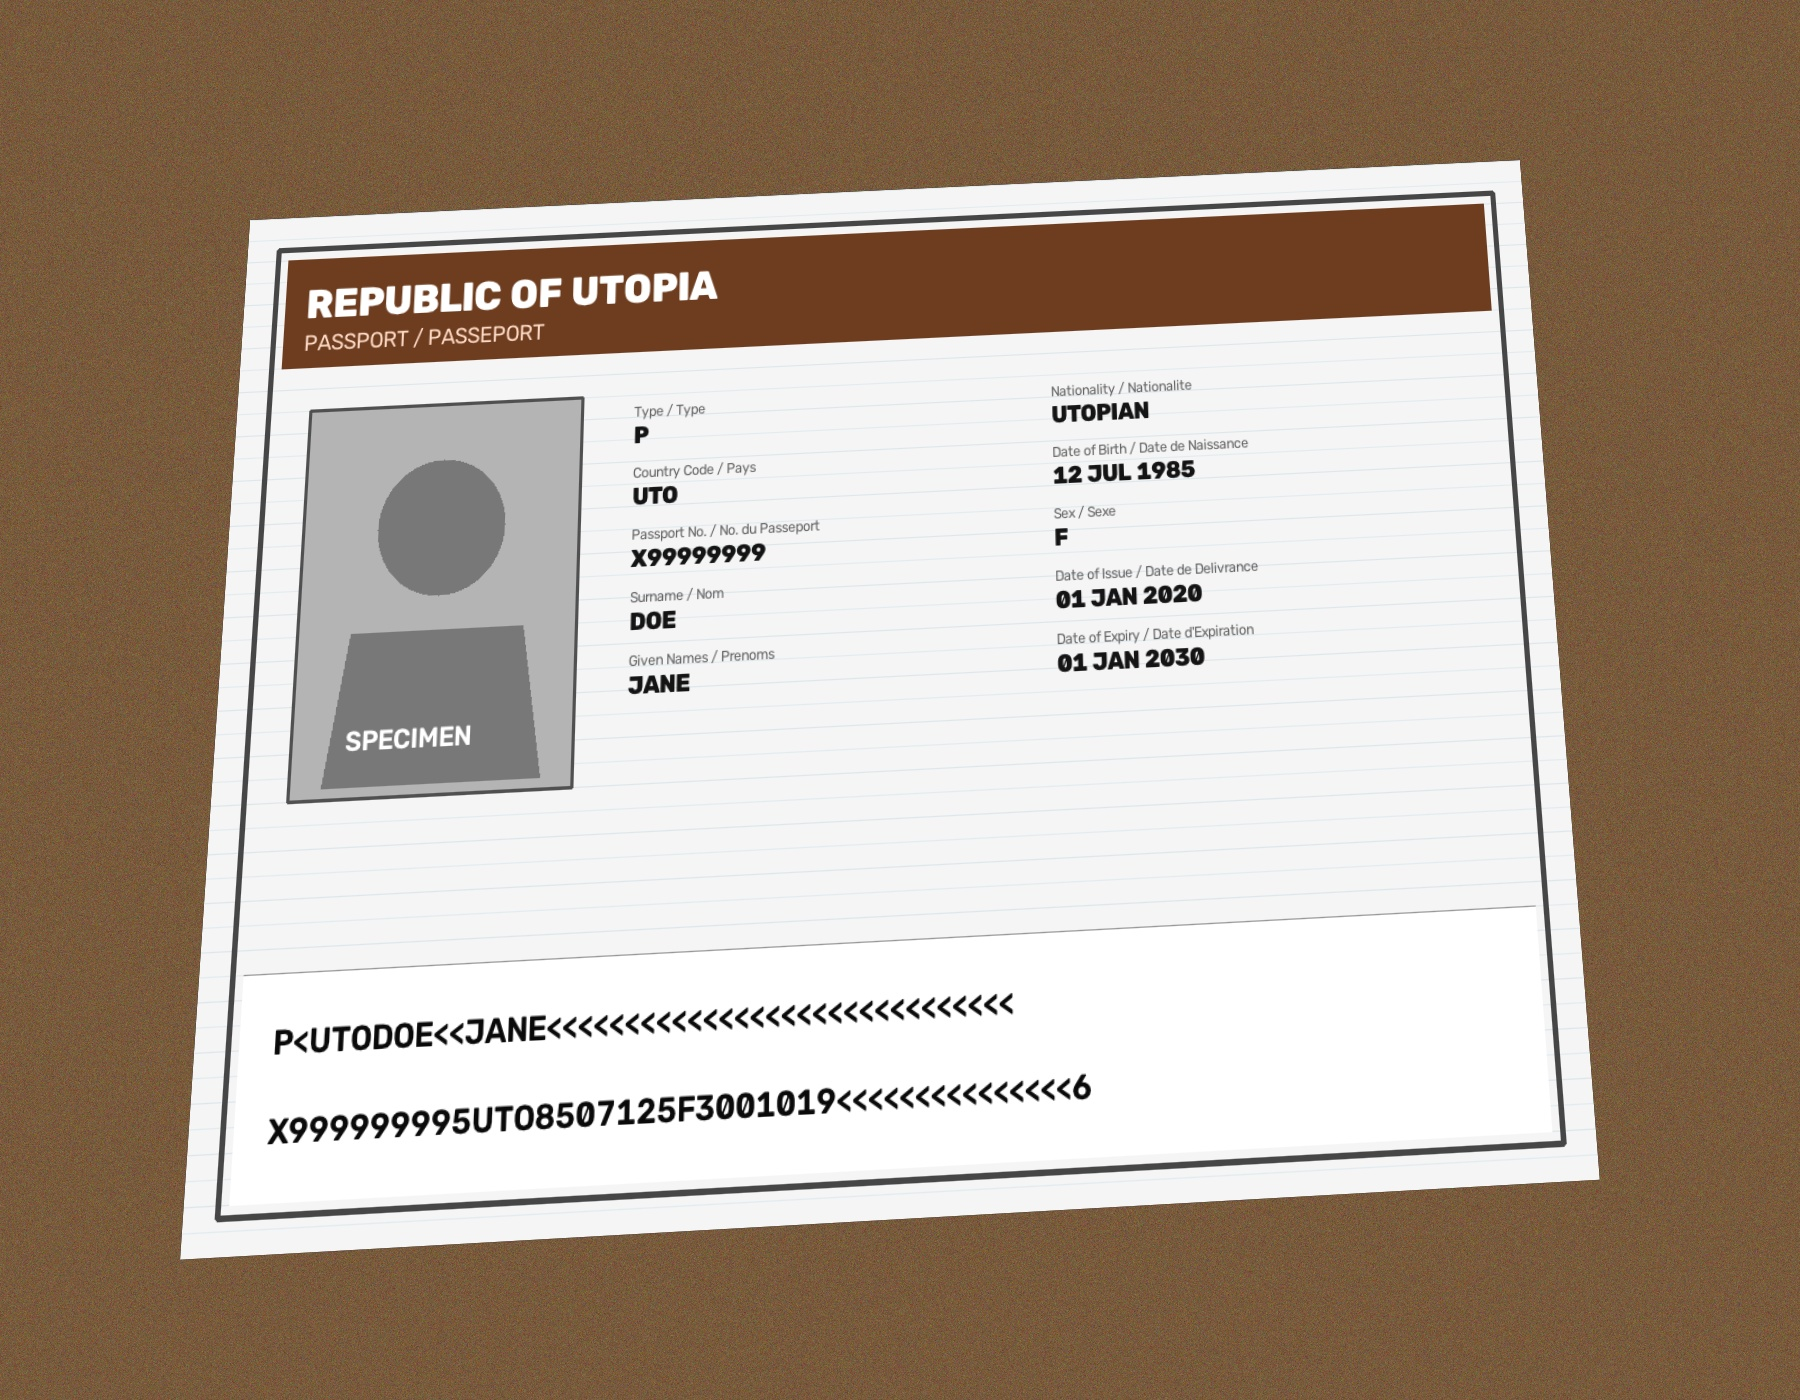
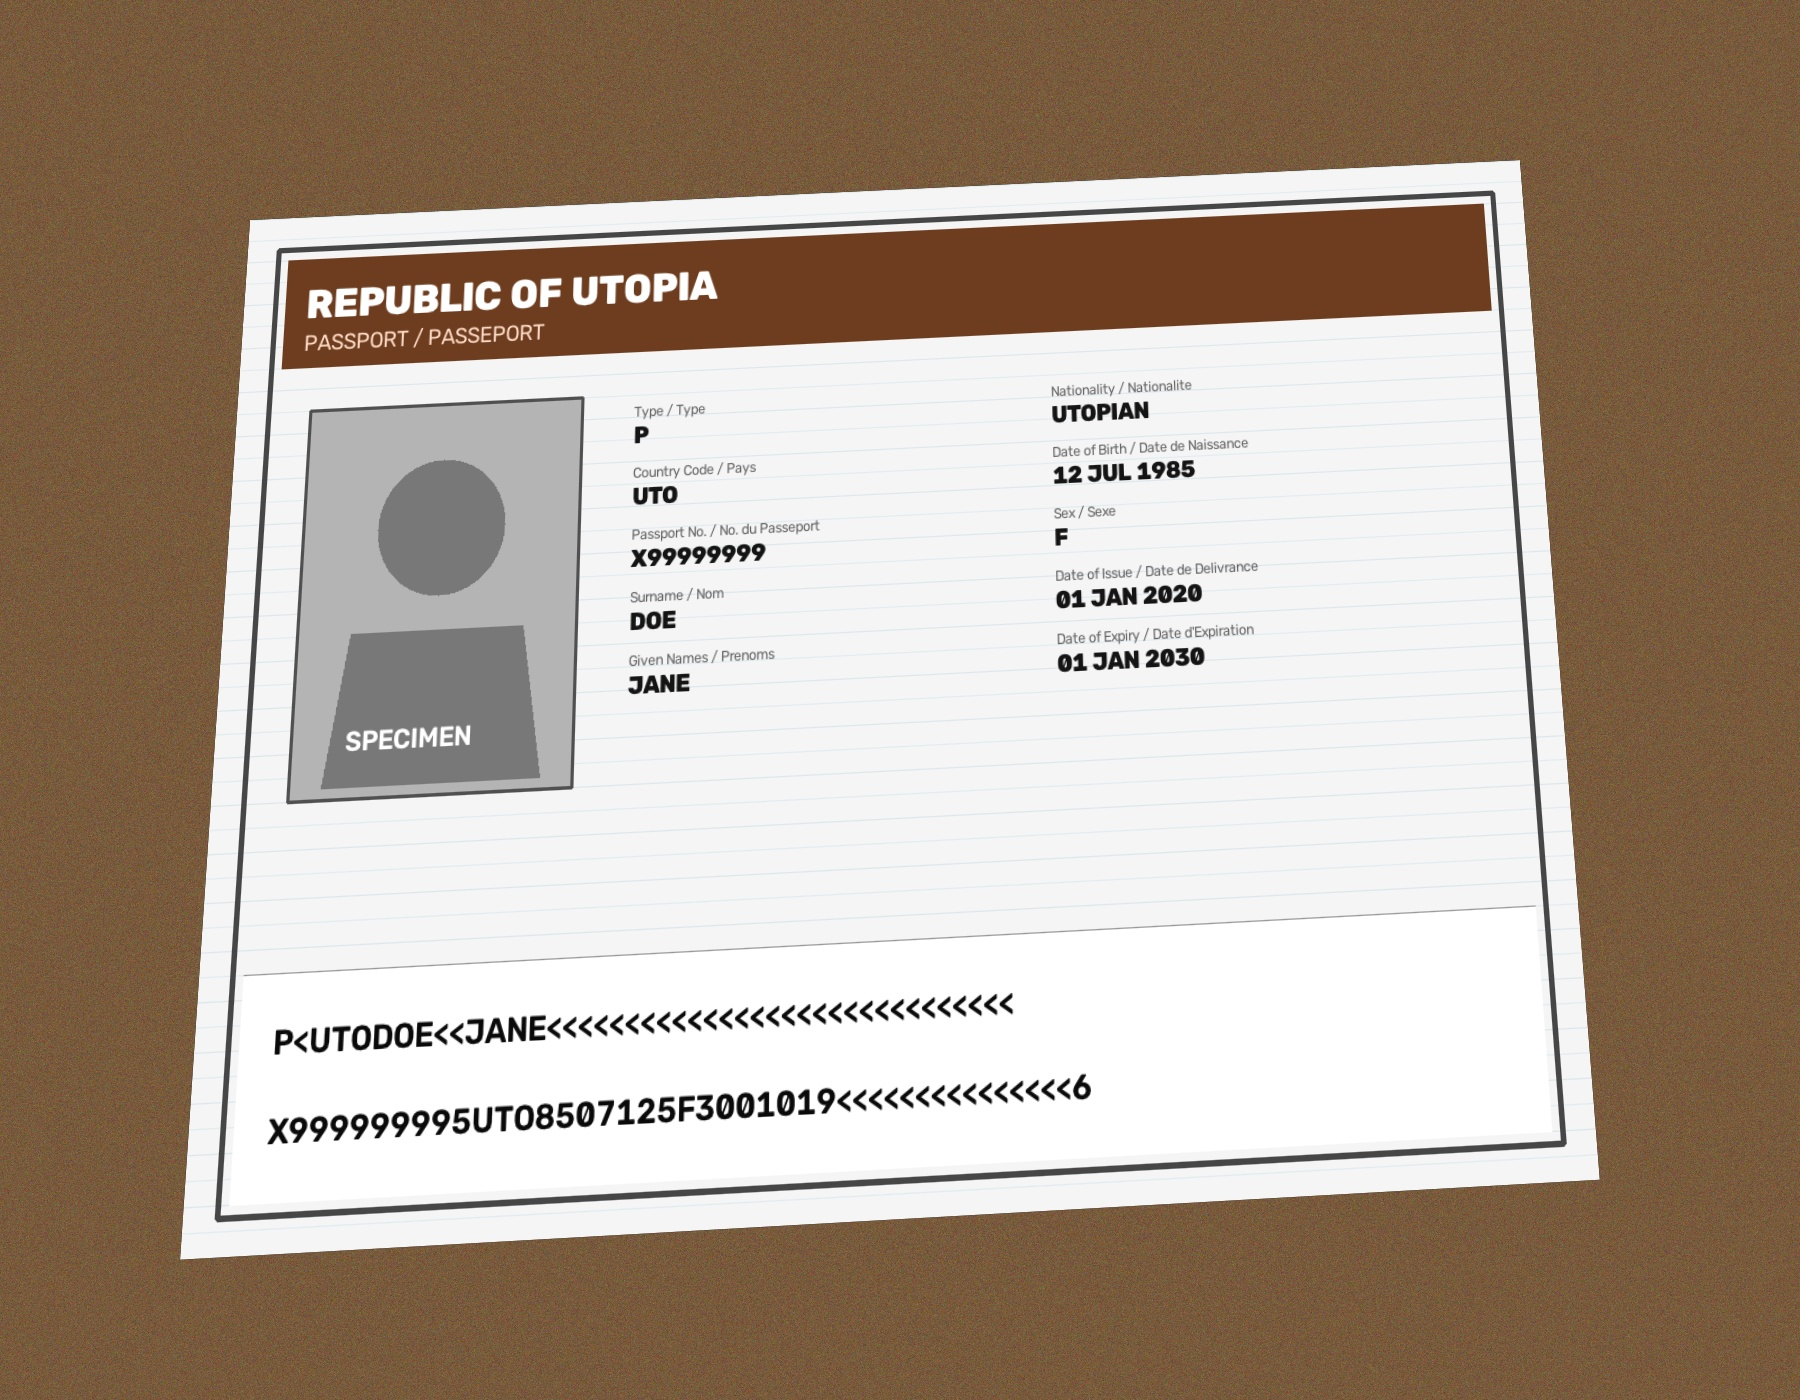
fix(face): prevent false positive face match when subject is out of camera frame

diff --git a/frontend/src/lib/mock/scenarios.ts b/frontend/src/lib/mock/scenarios.ts
@@ -654,24 +654,28 @@ function buildFace(
   impersonation: boolean,
   liveFaceImageUrl?: string,
 ): FaceVerificationResult {
-  const similarity = impersonation ? rngFloat(rng, 0.33, 0.47) : rngFloat(rng, 0.89, 0.968);
+  const hasLiveFace = Boolean(liveFaceImageUrl);
+  const similarity = !hasLiveFace
+    ? 0.0
+    : impersonation
+      ? rngFloat(rng, 0.25, 0.42)
+      : rngFloat(rng, 0.89, 0.968);
+
+  const outcome = (hasLiveFace && similarity >= FACE_THRESHOLD) ? 'MATCH' : 'NO_MATCH';
 
   return {
     status: 'COMPLETED',
     similarity,
     threshold: FACE_THRESHOLD,
-    outcome: similarity >= FACE_THRESHOLD ? 'MATCH' : 'NO_MATCH',
+    outcome,
     documentFaceUrl: faceSvgDataUri({ seed: identity.documentNumber, variant: 'document' }),
     liveFaceUrl:
       liveFaceImageUrl ??
-      faceSvgDataUri({
-        // A different seed for impersonation renders a visibly different person,
-        // so the side-by-side comparison reads clearly on a projector.
-        seed: impersonation ? `${identity.documentNumber}-alt` : identity.documentNumber,
-        variant: 'live',
-      }),
+      (impersonation
+        ? faceSvgDataUri({ seed: `${identity.documentNumber}-alt`, variant: 'live' })
+        : undefined),
     documentFaceQuality: 'GOOD',
-    liveFaceQuality: rng() > 0.75 ? 'ACCEPTABLE' : 'GOOD',
+    liveFaceQuality: hasLiveFace ? (rng() > 0.75 ? 'ACCEPTABLE' : 'GOOD') : 'POOR',
     modelVersion: 'vg-face-embed v1.2.0',
   };
 }

diff --git a/backend/app/face/verifier.py b/backend/app/face/verifier.py
@@ -78,7 +78,41 @@ def verify_identity_and_liveness(
     if doc_crop is None:
         flags.append("DOCUMENT_PHOTO_MISSING: Could not detect or extract face from document image.")
     if live_crop is None:
-        flags.append("LIVE_FACE_MISSING: Could not detect face in live selfie image.")
+        flags.append("LIVE_FACE_MISSING: No live human face detected in camera viewport (subject out of frame).")
+
+    # If live face is missing, immediately fail verification with 0.0 similarity & High Risk
+    if live_crop is None or doc_crop is None:
+        match_result = FaceMatchResult(
+            match_status="MISMATCH",
+            similarity_score=0.0,
+            cosine_distance=1.0,
+            is_match=False,
+            confidence=0.0,
+            details="No live human face detected in camera viewport." if live_crop is None else "No document portrait detected."
+        )
+        liveness_result = LivenessResult(
+            is_live=False,
+            liveness_score=0.0,
+            spoof_type="NO_FACE",
+            confidence=1.0,
+            details="Subject not detected in camera frame."
+        )
+        return FaceVerificationReport(
+            is_verified=False,
+            face_similarity_score=0.0,
+            match_status="MISMATCH",
+            is_live=False,
+            liveness_score=0.0,
+            spoof_type="NO_FACE",
+            face_risk_score=1.0,
+            face_risk_level="HIGH",
+            match_details=match_result,
+            liveness_details=liveness_result,
+            doc_face_crop_base64=encode_image_to_base64(doc_crop) if doc_crop is not None else None,
+            live_face_crop_base64=None,
+            tampering_flags=flags,
+            recommendation="Verification Failed: Subject out of frame. Please ensure the applicant is positioned clearly in front of the camera."
+        )
 
     # 2. 1:1 Similarity Matching
     match_result = verify_face_match(doc_crop, live_crop)
@@ -88,25 +122,20 @@ def verify_identity_and_liveness(
         flags.append(f"FACE_SIMILARITY_BORDERLINE: Moderate similarity ({match_result.similarity_score:.1%}), manual review recommended.")
 
     # 3. Passive Liveness Assessment on live selfie
-    liveness_result = evaluate_passive_liveness(live_crop if live_crop is not None else live_image)
+    liveness_result = evaluate_passive_liveness(live_crop)
     if not liveness_result.is_live:
         flags.append(f"LIVENESS_FAILED_{liveness_result.spoof_type}: {liveness_result.details}")
 
     # 4. Calculate Combined Face Risk Score
-    # Risk is high if face mismatch OR spoof attack detected
     mismatch_risk = 1.0 - match_result.similarity_score
     spoof_risk = 1.0 - liveness_result.liveness_score
 
-    # Weighted risk
     risk_score = round(min(1.0, (mismatch_risk * 0.60) + (spoof_risk * 0.40)), 2)
-
-    # If active spoof detected, boost risk
     if not liveness_result.is_live:
         risk_score = max(risk_score, 0.75)
     if match_result.match_status == "MISMATCH":
         risk_score = max(risk_score, 0.80)
 
-    # 3-tier Risk Level
     if risk_score >= 0.60:
         risk_level = "HIGH"
         recommendation = "Secondary Inspection Required: Identity mismatch or presentation spoof attack detected."
@@ -130,8 +159,8 @@ def verify_identity_and_liveness(
         face_risk_level=risk_level,
         match_details=match_result,
         liveness_details=liveness_result,
-        doc_face_crop_base64=encode_image_to_base64(doc_crop) if doc_crop is not None else None,
-        live_face_crop_base64=encode_image_to_base64(live_crop) if live_crop is not None else None,
+        doc_face_crop_base64=encode_image_to_base64(doc_crop),
+        live_face_crop_base64=encode_image_to_base64(live_crop),
         tampering_flags=flags,
         recommendation=recommendation
     )

diff --git a/backend/app/face/yolo_face.py b/backend/app/face/yolo_face.py
@@ -182,7 +182,33 @@ class YOLOFaceDetector:
                     ))
                 backend_used = "OPENCV_HAAR"
 
-        # 4. Fallback: ICAO Geometric Standard ROI for Document
+        # 4. Fallback: Facial skin-tone & contour blob detector for synthetic face fixtures
+        if not detected_faces and not is_document:
+            try:
+                ycrcb = cv2.cvtColor(image, cv2.COLOR_BGR2YCrCb) if len(image.shape) == 3 else None
+                if ycrcb is not None:
+                    # Skin tone mask in YCrCb
+                    mask = cv2.inRange(ycrcb, np.array([0, 133, 77]), np.array([255, 173, 127]))
+                    contours, _ = cv2.findContours(mask, cv2.RETR_EXTERNAL, cv2.CHAIN_APPROX_SIMPLE)
+                    if contours:
+                        c = max(contours, key=cv2.contourArea)
+                        area = cv2.contourArea(c)
+                        if area >= (w * h * 0.05):  # Must occupy at least 5% of viewport
+                            bx, by, bw, bh = cv2.boundingRect(c)
+                            aspect = bw / float(bh)
+                            if 0.5 <= aspect <= 1.6:
+                                roi = image[by:by + bh, bx:bx + bw]
+                                gray_roi = cv2.cvtColor(roi, cv2.COLOR_BGR2GRAY)
+                                if np.std(gray_roi) > 8.0:
+                                    detected_faces.append(YOLODetectedFace(
+                                        x=int(bx), y=int(by), w=int(bw), h=int(bh),
+                                        confidence=0.80, face_type="PRIMARY"
+                                    ))
+                                    backend_used = "SKIN_FEATURE_CONTOUR"
+            except Exception:
+                pass
+
+        # 5. Fallback: ICAO Geometric Standard ROI for Document
         if not detected_faces and is_document:
             px1 = max(0, int(w * 0.05))
             py1 = max(0, int(h * 0.18))
@@ -194,17 +220,7 @@ class YOLOFaceDetector:
             ))
             backend_used = "GEOMETRIC_ROI"
 
-        # 5. Fallback: Center crop for Live Selfie
-        if not detected_faces and not is_document:
-            cw = int(w * 0.6)
-            ch = int(h * 0.6)
-            cx1 = (w - cw) // 2
-            cy1 = (h - ch) // 2
-            detected_faces.append(YOLODetectedFace(
-                x=cx1, y=cy1, w=cw, h=ch,
-                confidence=0.60, face_type="PRIMARY"
-            ))
-            backend_used = "CENTER_ROI"
+        # If live selfie and no face detected, detected_faces remains empty!
 
         # Classify Primary vs Ghost Watermark Photo
         primary_face = None

diff --git a/backend/app/face/extractor.py b/backend/app/face/extractor.py
@@ -77,7 +77,7 @@ def extract_face_crop(
             bbox = {"x": int(fx), "y": int(fy), "w": int(fw), "h": int(fh)}
             return resized, bbox, pf.confidence
 
-    # 2. Geometric ICAO Fallback for Document
+    # 2. Geometric ICAO Fallback for Document only
     if is_document:
         px1 = max(0, int(w * 0.05))
         py1 = max(0, int(h * 0.18))
@@ -90,15 +90,8 @@ def extract_face_crop(
             bbox = {"x": px1, "y": py1, "w": px2 - px1, "h": py2 - py1}
             return resized, bbox, 0.70
 
-    # 3. Live selfie fallback: Center crop
-    cw = int(w * 0.6)
-    ch = int(h * 0.6)
-    cx1 = (w - cw) // 2
-    cy1 = (h - ch) // 2
-    crop = image[cy1:cy1 + ch, cx1:cx1 + cw]
-    resized = cv2.resize(crop, target_size, interpolation=cv2.INTER_AREA)
-    bbox = {"x": cx1, "y": cy1, "w": cw, "h": ch}
-    return resized, bbox, 0.50
+    # 3. If live selfie and no face detected by YOLO or Haar, report NO face detected
+    return None, None, 0.0
 
 
 def extract_document_faces(

diff --git a/backend/app/face/liveness.py b/backend/app/face/liveness.py
@@ -14,10 +14,10 @@ class LivenessResult(BaseModel):
     is_live: bool = Field(..., description="True if face passes presentation attack detection")
     liveness_score: float = Field(..., description="0.0 (spoof) to 1.0 (genuine live person)")
     spoof_type: str = "GENUINE_LIVE_FACE"  # GENUINE_LIVE_FACE, SCREEN_REPLAY_SPOOF, PRINTED_PHOTO_SPOOF, LOW_QUALITY
-    confidence: float
-    moire_score: float
-    texture_score: float
-    color_diversity_score: float
+    confidence: float = 1.0
+    moire_score: float = 0.0
+    texture_score: float = 0.0
+    color_diversity_score: float = 0.0
     details: Optional[str] = None
 
 
